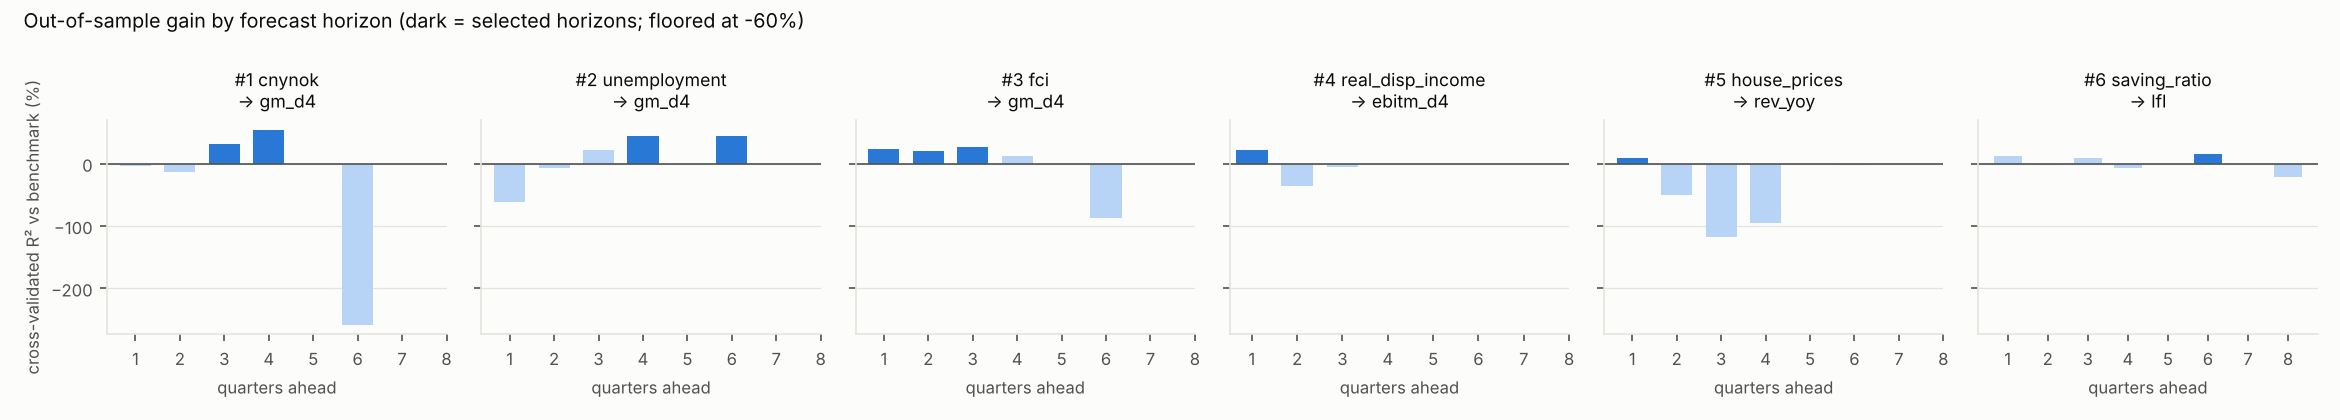
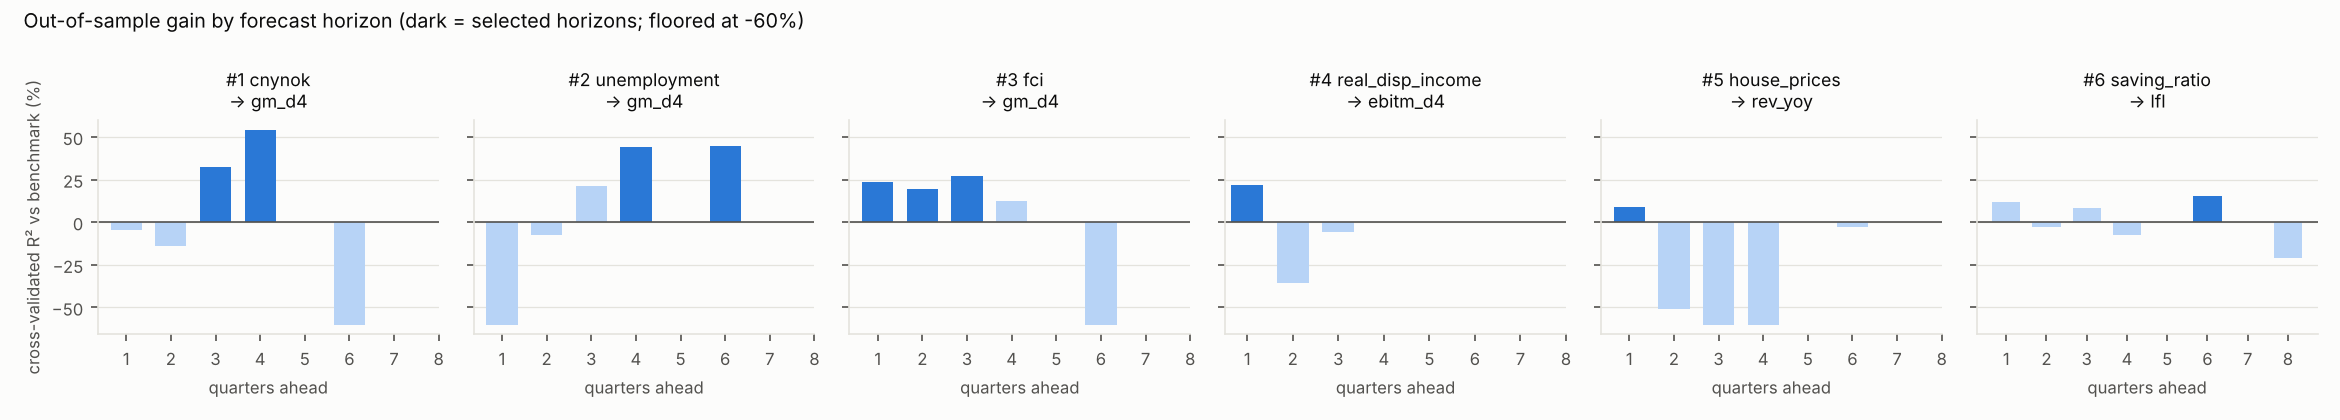
Improve result figures (horizon profile floor, holdout-only forecasts)
Claude-Session: https://claude.ai/code/session_01HQMCDPBt8Mcwhuih4hqYEy

diff --git a/research/europris_predictors/scripts/evaluate_top.py b/research/europris_predictors/scripts/evaluate_top.py
@@ -130,7 +130,7 @@ def figures(cards, preds, panel, X):
     for ax, p in zip(axes, picks):
         c = cards[(cards.key == p["key"]) & (cards.target == p["targets"][0])].sort_values("h")
         cols = [S1 if s else "#b7d3f6" for s in c.selected_h]
-        ax.bar(c.h, 100 * c.cvc_r2.clip(-60, None), color=cols, width=0.7)
+        ax.bar(c.h, (100 * c.cvc_r2).clip(-60, None), color=cols, width=0.7)
         ax.axhline(0, color=INK2, lw=0.8)
         style(ax)
         ax.set_title(f"#{p['rank']} {p['key']}\n→ {p['targets'][0]}", fontsize=8.5, color=INK)
@@ -143,24 +143,25 @@ def figures(cards, preds, panel, X):
     fig.savefig(FIG / "horizon_profiles.png", dpi=150, facecolor=SURF)
     plt.close(fig)
 
-    # 2. holdout: actual vs benchmark vs model, primary horizon, COVID-excluded spec
+    # 2. holdout only (8 quarters): actual vs benchmark vs model, COVID-excluded spec
     sel = [(p, p["targets"][0], p["hs"][-1] if p["key"] in ("cnynok",) else p["hs"][0]) for p in picks]
-    fig, axes = plt.subplots(2, 3, figsize=(11, 5.6), facecolor=SURF)
+    fig, axes = plt.subplots(2, 3, figsize=(11, 5.4), facecolor=SURF)
     for ax, (p, y, h) in zip(axes.ravel(), sel):
         r = preds.get((p["key"], y, h, "exclude"))
         style(ax)
         if r is None:
             ax.set_visible(False)
             continue
-        r = r[~r.covid_target.astype(bool)]
-        t = [q.to_timestamp(how="end") for q in r.tdate]
-        ax.plot(t, r.y, color=INK, lw=2, label="actual")
-        ax.plot(t, r.f_bench, color=MUTED, lw=1.5, ls="--", label="benchmark (AR + calendar)")
-        ax.plot(t, r.f_model, color=S1, lw=2, label=f"+ {p['key']}")
-        ax.axvspan(SEL_END.to_timestamp(how="end"), HOLD_END.to_timestamp(how="end"), color="#f1f0ec", zorder=0)
+        r = r[(r.tdate > SEL_END) & (r.tdate <= HOLD_END)]
+        xs = np.arange(len(r))
+        labels = [f"{q.year % 100}Q{q.quarter}" for q in r.tdate]
+        ax.plot(xs, r.y, color=INK, lw=2, marker="o", ms=4, label="actual")
+        ax.plot(xs, r.f_bench, color=MUTED, lw=1.5, ls="--", marker="o", ms=3, label="benchmark (AR + calendar)")
+        ax.plot(xs, r.f_model, color=S1, lw=2, marker="o", ms=4, label=f"+ {p['key']}")
+        ax.set_xticks(xs, labels)
         ax.set_title(f"#{p['rank']} {p['key']} → {TNAME[y]}, {h}q ahead", fontsize=8.5, color=INK)
         ax.legend(fontsize=6.5, frameon=False, loc="best")
-    fig.suptitle("Pseudo real-time forecasts (shaded = holdout 2024Q3-2026Q2, never used for selection)",
+    fig.suptitle("Holdout 2024Q3-2026Q2 (never used for selection): pseudo real-time forecasts vs actual",
                  fontsize=9.5, color=INK, x=0.01, ha="left")
     fig.tight_layout()
     fig.savefig(FIG / "holdout_forecasts.png", dpi=150, facecolor=SURF)
